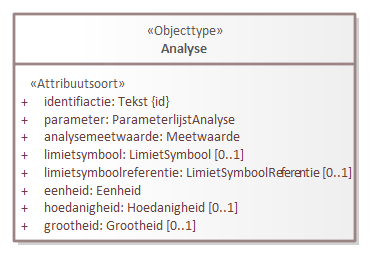
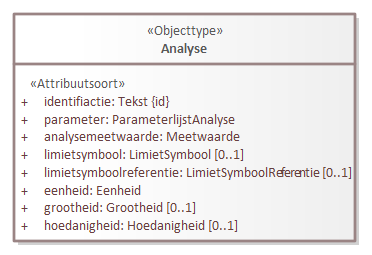
Conceptualmodel-MilieuhygienischbodemonderzoekSAD-0.2-1-20230126-20230530-073358

Changed region(s): [[0.1183, 0.7961, 0.6505, 0.9333]]

diff --git a/data/SAD-cat.msword.html b/data/SAD-cat.msword.html
@@ -15,7 +15,7 @@
    <body>
       <p>Conceptual model/Milieuhygienisch bodemonderzoek SAD/20230126</p>
       <p>Imvertor: 2.0.0</p>
-      <p>Model release: Conceptualmodel-MilieuhygienischbodemonderzoekSAD-0.2-1-20230126-20230530-064652</p>
+      <p>Model release: Conceptualmodel-MilieuhygienischbodemonderzoekSAD-0.2-1-20230126-20230530-073358</p>
       <hr>
       <section>
          <h1>Artikel 1 Definitie van registratieobject, entiteiten en attributen</h1>
@@ -5137,8 +5137,7 @@
                               <td>
                                  
                                  <p>Het in het laboratorium gemeten gehalte of de waargenomen waarde van de parameter.
-                                    Wanneer het limietsymbool aanwezig is, mag hier de rapportagegrens geregistreerd worden
-                                    in plaats van de gemeten waarde.</p>
+                                    Wanneer het limietsymbool aanwezig is, mag hier de <em>limietsymboolreferentie</em> geregistreerd worden in plaats van de gemeten waarde.</p>
                                  </td>
                            </tr>
                            <tr>
@@ -5213,8 +5212,7 @@
                               <th>Definitie</th>
                               <td>
                                  
-                                 <p>Symbool dat aangeeft of de gemeten waarde kleiner is dan de rapportagegrens, ofwel
-                                    groter is dan de hoogtse grenswaarde die gerapporteerd wordt. </p>
+                                 <p>Symbool dat aangeeft of de gemeten waarde kleiner is dan de <em>limietsymboolreferentie</em>, ofwel groter is dan de hoogtse <em>limietsymboolreferentie</em>. </p>
                                  </td>
                            </tr>
                            <tr>
@@ -5243,7 +5241,7 @@
                               <th>Toelichting</th>
                               <td>
                                  
-                                 <p>Het gegeven is alleen aanwezig wanneer bij het attribuut <em>analysemeetwaarde</em> niet de gemeten waarde is opgegeven maar in plaats daarvan de rapportagegrens.</p>
+                                 <p>Het gegeven is alleen aanwezig wanneer bij het attribuut <em>analysemeetwaarde</em> niet de gemeten waarde is opgegeven maar in plaats daarvan de <em>limietsymboolreferentie</em>.</p>
                                  </td>
                            </tr>
                         </tbody>
@@ -5263,8 +5261,7 @@
                               <th>Definitie</th>
                               <td>
                                  
-                                 <p>De grenswaarde waarop het limitSymbol van AnalyticResult betrekking
-                                    heeft.</p>
+                                 <p>De grenswaarde waarop het limietsymbool van de analyse betrekking heeft.</p>
                                  </td>
                            </tr>
                            <tr>
@@ -5333,6 +5330,48 @@
                            </tr>
                         </tbody>
                      </table>
+                     </section><a class="anchor" id="detail_attribute_Model_Analyse_grootheid"></a><section id="detail_attribute_Model_Analyse_grootheid">
+                     <h4>  grootheid</h4>
+                     
+                     <table style="width: 100%;">
+                        <colgroup style="width: 30%;"></colgroup>
+                        <colgroup style="width: 70%;"></colgroup>
+                        <tbody>
+                           <tr>
+                              <th>Type gegeven</th>
+                              <td>Attribuut van Analyse</td>
+                           </tr>
+                           <tr>
+                              <th>Definitie</th>
+                              <td>
+                                 
+                                 <p>De gemeten eigenschap.</p>
+                                 </td>
+                           </tr>
+                           <tr>
+                              <th>Juridische status</th>
+                              <td>Authentiek</td>
+                           </tr>
+                           <tr>
+                              <th>Kardinaliteit</th>
+                              <td>0..1</td>
+                           </tr>
+                           <tr>
+                              <th>Domein</th>
+                              <td></td>
+                           </tr>
+                           <tr>
+                              <th>&nbsp;&nbsp;Naam</th>
+                              <td><a class="link" href="#detail_class_Model_Grootheid">
+                                    Grootheid
+                                    </a></td>
+                           </tr>
+                           <tr>
+                              <th>&nbsp;&nbsp;Type</th>
+                              <td>Waardelijst uitbreidbaar</td>
+                           </tr>
+                        </tbody>
+                     </table>
                      </section><a class="anchor" id="detail_attribute_Model_Analyse_hoedanigheid"></a><section id="detail_attribute_Model_Analyse_hoedanigheid">
                      <h4>  hoedanigheid</h4>
                      
@@ -5383,48 +5422,6 @@
                                     in Stikstof' bij de parameter Nitraat (NO3). De waarde 'opgeloste fractie' of de korrelgroottefractie
                                     zijn voorbeelden van fracties van een parameter.</p>
                                  </td>
-                           </tr>
-                        </tbody>
-                     </table>
-                     </section><a class="anchor" id="detail_attribute_Model_Analyse_grootheid"></a><section id="detail_attribute_Model_Analyse_grootheid">
-                     <h4>  grootheid</h4>
-                     
-                     <table style="width: 100%;">
-                        <colgroup style="width: 30%;"></colgroup>
-                        <colgroup style="width: 70%;"></colgroup>
-                        <tbody>
-                           <tr>
-                              <th>Type gegeven</th>
-                              <td>Attribuut van Analyse</td>
-                           </tr>
-                           <tr>
-                              <th>Definitie</th>
-                              <td>
-                                 
-                                 <p>De gemeten eigenschap. Voorbeelden: massafractie en massaconcentratie.</p>
-                                 </td>
-                           </tr>
-                           <tr>
-                              <th>Juridische status</th>
-                              <td>Authentiek</td>
-                           </tr>
-                           <tr>
-                              <th>Kardinaliteit</th>
-                              <td>0..1</td>
-                           </tr>
-                           <tr>
-                              <th>Domein</th>
-                              <td></td>
-                           </tr>
-                           <tr>
-                              <th>&nbsp;&nbsp;Naam</th>
-                              <td><a class="link" href="#detail_class_Model_Grootheid">
-                                    Grootheid
-                                    </a></td>
-                           </tr>
-                           <tr>
-                              <th>&nbsp;&nbsp;Type</th>
-                              <td>Waardelijst uitbreidbaar</td>
                            </tr>
                         </tbody>
                      </table>
@@ -5507,7 +5504,7 @@
                               <th>Definitie</th>
                               <td>
                                  
-                                 <p>De identificatie die de analyseproces heeft binnen de informatieketen milieukwaliteit.</p>
+                                 <p>De identificatie die het analyseproces heeft binnen de informatieketen milieukwaliteit.</p>
                                  </td>
                            </tr>
                            <tr>
@@ -5555,7 +5552,7 @@
                               <th>Definitie</th>
                               <td>
                                  
-                                 <p>Aanduiding van het kwaliteitskenmerk volgens welke het laboratorium de component heeft
+                                 <p>Aanduiding van het kwaliteitskenmerk volgens welke het laboratorium de parameter heeft
                                     geanalyseerd.</p>
                                  </td>
                            </tr>

diff --git a/data/SAD-cat.respec.html b/data/SAD-cat.respec.html
@@ -5113,8 +5113,7 @@
                      <td>
                         
                         <p>Het in het laboratorium gemeten gehalte of de waargenomen waarde van de parameter.
-                           Wanneer het limietsymbool aanwezig is, mag hier de rapportagegrens geregistreerd worden
-                           in plaats van de gemeten waarde.</p>
+                           Wanneer het limietsymbool aanwezig is, mag hier de <em>limietsymboolreferentie</em> geregistreerd worden in plaats van de gemeten waarde.</p>
                         </td>
                   </tr>
                   <tr>
@@ -5189,8 +5188,7 @@
                      <th>Definitie</th>
                      <td>
                         
-                        <p>Symbool dat aangeeft of de gemeten waarde kleiner is dan de rapportagegrens, ofwel
-                           groter is dan de hoogtse grenswaarde die gerapporteerd wordt. </p>
+                        <p>Symbool dat aangeeft of de gemeten waarde kleiner is dan de <em>limietsymboolreferentie</em>, ofwel groter is dan de hoogtse <em>limietsymboolreferentie</em>. </p>
                         </td>
                   </tr>
                   <tr>
@@ -5219,7 +5217,7 @@
                      <th>Toelichting</th>
                      <td>
                         
-                        <p>Het gegeven is alleen aanwezig wanneer bij het attribuut <em>analysemeetwaarde</em> niet de gemeten waarde is opgegeven maar in plaats daarvan de rapportagegrens.</p>
+                        <p>Het gegeven is alleen aanwezig wanneer bij het attribuut <em>analysemeetwaarde</em> niet de gemeten waarde is opgegeven maar in plaats daarvan de <em>limietsymboolreferentie</em>.</p>
                         </td>
                   </tr>
                </tbody>
@@ -5239,8 +5237,7 @@
                      <th>Definitie</th>
                      <td>
                         
-                        <p>De grenswaarde waarop het limitSymbol van AnalyticResult betrekking
-                           heeft.</p>
+                        <p>De grenswaarde waarop het limietsymbool van de analyse betrekking heeft.</p>
                         </td>
                   </tr>
                   <tr>
@@ -5309,6 +5306,48 @@
                   </tr>
                </tbody>
             </table>
+            </section><a class="anchor" id="detail_attribute_Model_Analyse_grootheid"></a><section id="detail_attribute_Model_Analyse_grootheid">
+            <h4>  grootheid</h4>
+            
+            <table style="width: 100%;">
+               <colgroup style="width: 30%;"></colgroup>
+               <colgroup style="width: 70%;"></colgroup>
+               <tbody>
+                  <tr>
+                     <th>Type gegeven</th>
+                     <td>Attribuut van Analyse</td>
+                  </tr>
+                  <tr>
+                     <th>Definitie</th>
+                     <td>
+                        
+                        <p>De gemeten eigenschap.</p>
+                        </td>
+                  </tr>
+                  <tr>
+                     <th>Juridische status</th>
+                     <td>Authentiek</td>
+                  </tr>
+                  <tr>
+                     <th>Kardinaliteit</th>
+                     <td>0..1</td>
+                  </tr>
+                  <tr>
+                     <th>Domein</th>
+                     <td></td>
+                  </tr>
+                  <tr>
+                     <th>&nbsp;&nbsp;Naam</th>
+                     <td><a class="link" href="#detail_class_Model_Grootheid">
+                           Grootheid
+                           </a></td>
+                  </tr>
+                  <tr>
+                     <th>&nbsp;&nbsp;Type</th>
+                     <td>Waardelijst uitbreidbaar</td>
+                  </tr>
+               </tbody>
+            </table>
             </section><a class="anchor" id="detail_attribute_Model_Analyse_hoedanigheid"></a><section id="detail_attribute_Model_Analyse_hoedanigheid">
             <h4>  hoedanigheid</h4>
             
@@ -5359,48 +5398,6 @@
                            in Stikstof' bij de parameter Nitraat (NO3). De waarde 'opgeloste fractie' of de korrelgroottefractie
                            zijn voorbeelden van fracties van een parameter.</p>
                         </td>
-                  </tr>
-               </tbody>
-            </table>
-            </section><a class="anchor" id="detail_attribute_Model_Analyse_grootheid"></a><section id="detail_attribute_Model_Analyse_grootheid">
-            <h4>  grootheid</h4>
-            
-            <table style="width: 100%;">
-               <colgroup style="width: 30%;"></colgroup>
-               <colgroup style="width: 70%;"></colgroup>
-               <tbody>
-                  <tr>
-                     <th>Type gegeven</th>
-                     <td>Attribuut van Analyse</td>
-                  </tr>
-                  <tr>
-                     <th>Definitie</th>
-                     <td>
-                        
-                        <p>De gemeten eigenschap. Voorbeelden: massafractie en massaconcentratie.</p>
-                        </td>
-                  </tr>
-                  <tr>
-                     <th>Juridische status</th>
-                     <td>Authentiek</td>
-                  </tr>
-                  <tr>
-                     <th>Kardinaliteit</th>
-                     <td>0..1</td>
-                  </tr>
-                  <tr>
-                     <th>Domein</th>
-                     <td></td>
-                  </tr>
-                  <tr>
-                     <th>&nbsp;&nbsp;Naam</th>
-                     <td><a class="link" href="#detail_class_Model_Grootheid">
-                           Grootheid
-                           </a></td>
-                  </tr>
-                  <tr>
-                     <th>&nbsp;&nbsp;Type</th>
-                     <td>Waardelijst uitbreidbaar</td>
                   </tr>
                </tbody>
             </table>
@@ -5483,7 +5480,7 @@
                      <th>Definitie</th>
                      <td>
                         
-                        <p>De identificatie die de analyseproces heeft binnen de informatieketen milieukwaliteit.</p>
+                        <p>De identificatie die het analyseproces heeft binnen de informatieketen milieukwaliteit.</p>
                         </td>
                   </tr>
                   <tr>
@@ -5531,7 +5528,7 @@
                      <th>Definitie</th>
                      <td>
                         
-                        <p>Aanduiding van het kwaliteitskenmerk volgens welke het laboratorium de component heeft
+                        <p>Aanduiding van het kwaliteitskenmerk volgens welke het laboratorium de parameter heeft
                            geanalyseerd.</p>
                         </td>
                   </tr>
